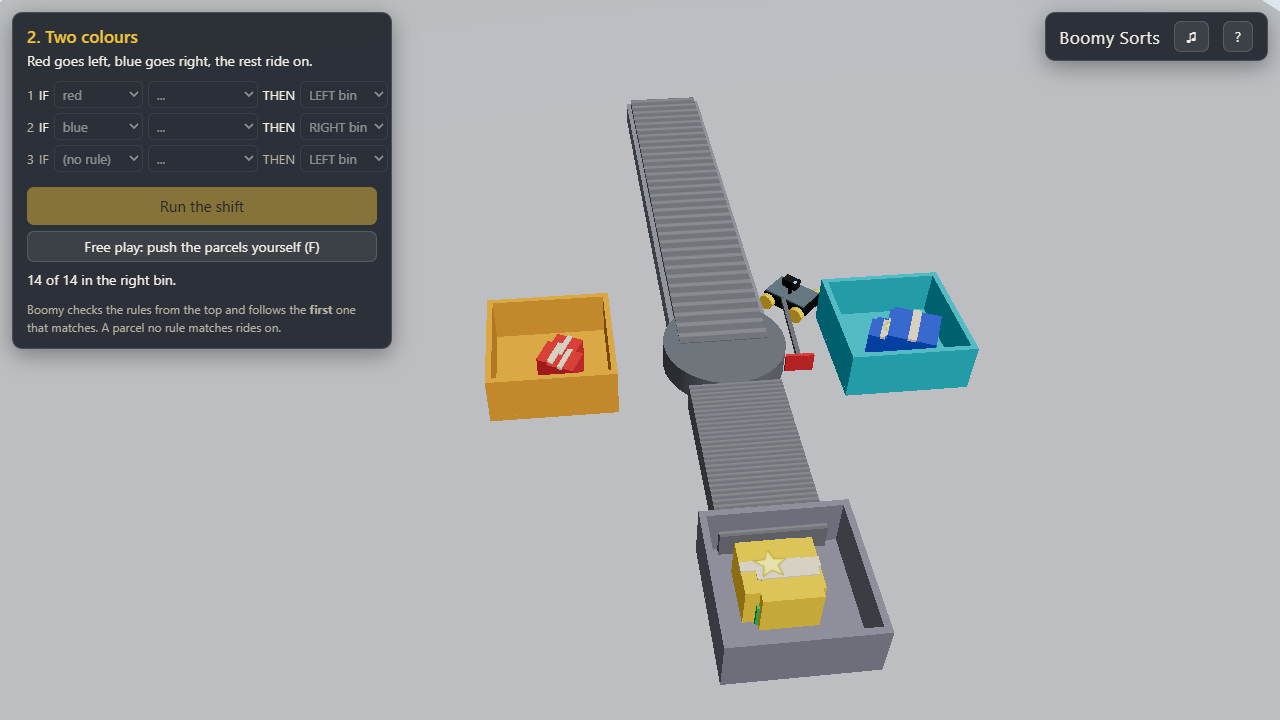
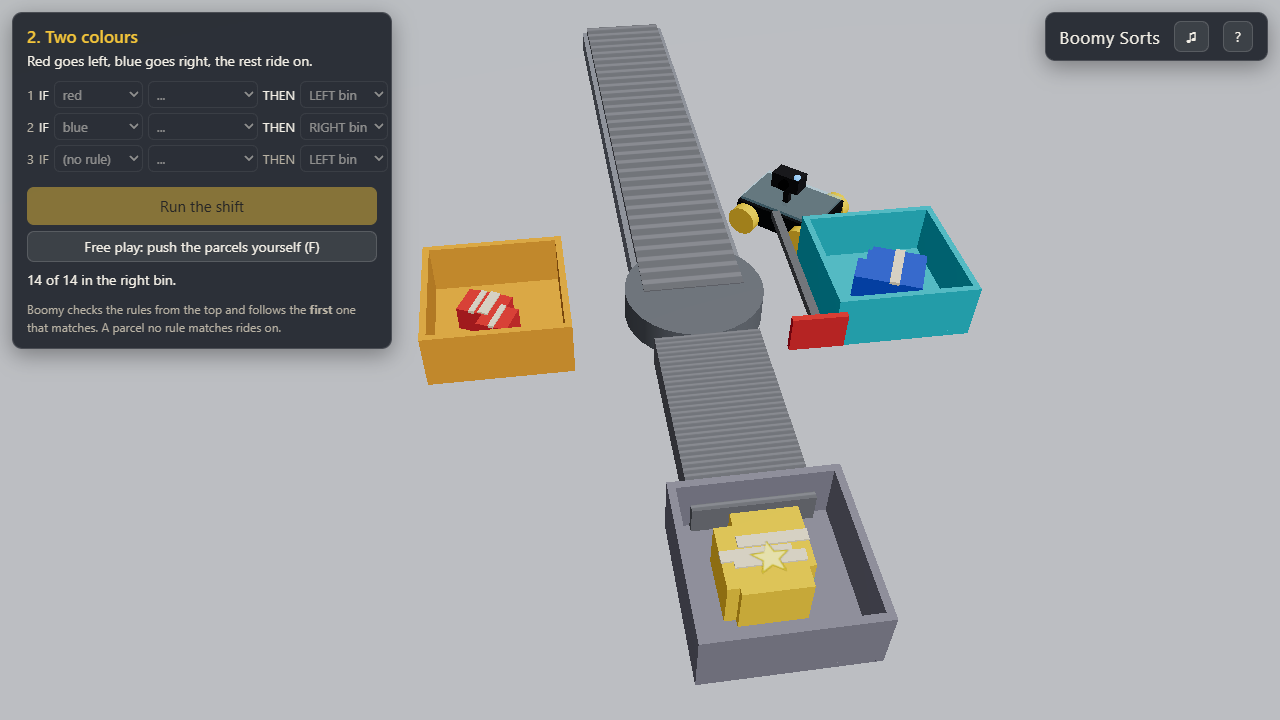
fix(boomy-sorts): render Boomy larger and reframe the camera
Boomy is 1.7x and stands a little further back so the longer arm still reaches the plate; camera moved in and re-aimed so belt start, both bins and the ON bin stay in frame at 16:9. Gate passes, thumbnail and tour shots refreshed.

Claude-Session: https://claude.ai/code/session_018dTunm6jJyN2wuD6oJnSBt

Changed region(s): [[0.3125, 0.0306, 0.7812, 0.9472], [0.9688, 0.0, 1.0, 0.0306]]

diff --git a/web/games/robot-sorting/main.js b/web/games/robot-sorting/main.js
@@ -51,8 +51,9 @@ for (const b of Object.values(BINS)) {
 
 // Boomy: a little four-wheeled robot car with a pan-tilt camera head and a pusher arm
 // he stands beside the junction plate, facing it
-const BOOMY_YAW = Math.atan2(-1.6, 1.5);
-const boomy = new THREE.Group(); boomy.position.set(1.6, 0, -1.5); boomy.rotation.y = BOOMY_YAW; scene.add(boomy);
+// 1.7x so he reads at a glance; stood a little further back so the longer arm still reaches the plate
+const BOOMY_YAW = Math.atan2(-2.1, 2.1);
+const boomy = new THREE.Group(); boomy.position.set(2.1, 0, -2.1); boomy.rotation.y = BOOMY_YAW; boomy.scale.setScalar(1.7); scene.add(boomy);
 box(0.9, 0.22, 0.62, 0x1e2024, 0, 0.2, 0, boomy);
 box(0.86, 0.03, 0.58, 0x9ad8f2, 0, 0.34, 0, boomy, new THREE.MeshStandardMaterial({ color: 0x9ad8f2, transparent: true, opacity: 0.55, roughness: 0.2 }));
 for (const [x, z] of [[-0.33, 0.36], [0.33, 0.36], [-0.33, -0.36], [0.33, -0.36]]) { const w = new THREE.Mesh(new THREE.CylinderGeometry(0.15, 0.15, 0.12, 16), M(0xf2c43a, 0.6)); w.rotation.x = Math.PI / 2; w.position.set(x, 0.15, z); w.castShadow = true; boomy.add(w); }
@@ -220,7 +221,7 @@ function resize() {
   renderer.setSize(innerWidth, innerHeight, false);
   camera.aspect = innerWidth / innerHeight; camera.fov = camera.aspect < 1 ? 66 : 42; camera.updateProjectionMatrix();
   // leave room for the rule panel on the left
-  camera.position.set(-2.8, 11.5, 12.5); camera.lookAt(-1.5, 0, -0.2); camera.updateMatrixWorld();
+  camera.position.set(-2.4, 10.0, 11.2); camera.lookAt(-1.0, 0, 1.0); camera.updateMatrixWorld();
 }
 addEventListener('resize', resize); resize();
 
